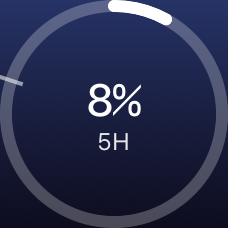
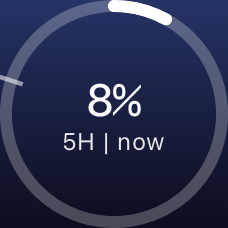
fix(ios-widget): age on every family, distinct stale and sign-in states

Changed region(s): [[0.2763, 0.5833, 0.7368, 0.6754], [0.0, 0.307, 0.0614, 0.3684]]

diff --git a/iOS/WidgetTests/CircularUsageViewTests.swift b/iOS/WidgetTests/CircularUsageViewTests.swift
@@ -15,7 +15,8 @@ final class CircularUsageViewTests: XCTestCase {
     func testFreshShowsShortLabel() {
         let c = content(entry(F.claudeMax))!
         XCTAssertEqual(c.row.key.rawValue, "session5h")
-        XCTAssertEqual(c.caption, "5H")
+        XCTAssertTrue(c.caption.hasPrefix("5H | "), c.caption)
+        XCTAssertGreaterThan(c.caption.count, "5H | ".count)
         XCTAssertFalse(c.isProblem)
         XCTAssertFalse(c.isDimmed)
     }
@@ -27,17 +28,32 @@ final class CircularUsageViewTests: XCTestCase {
 
     func testStaleReplacesLabelWithAge() {
         let c = content(entry(F.claudeMax, at: F.now.addingTimeInterval(45 * 60)))!
-        XCTAssertEqual(c.caption, "45m")
+        XCTAssertEqual(c.caption, "5H | 45m")
         XCTAssertTrue(c.isProblem)
     }
 
     func testNeedsLoginDimmedWithAge() {
         let c = content(entry(F.claudeMax, status: .needsLogin, at: F.now.addingTimeInterval(5 * 60)))!
-        XCTAssertEqual(c.caption, "5m")
+        XCTAssertEqual(c.caption, "5H | 5m")
         XCTAssertTrue(c.isDimmed)
     }
 
     func testNoSnapshotIsNil() {
         XCTAssertNil(content(entry(nil)))
+    }
+
+    func testRingTickStaysOnRing() {
+        let c = CGPoint(x: 50, y: 50)
+        for f in [0, 0.001, 0.25, 0.5, 0.62, 0.999, 1, -0.2, 1.3] {
+            let p = WidgetRing.point(on: f, center: c, radius: 40)
+            XCTAssertEqual(hypot(p.x - 50, p.y - 50), 40, accuracy: 0.001, "fraction \(f)")
+        }
+        let top = WidgetRing.point(on: 0, center: c, radius: 40)
+        XCTAssertEqual(top.x, 50, accuracy: 0.001); XCTAssertEqual(top.y, 10, accuracy: 0.001)
+        let right = WidgetRing.point(on: 0.25, center: c, radius: 40)
+        XCTAssertEqual(right.x, 90, accuracy: 0.001); XCTAssertEqual(right.y, 50, accuracy: 0.001)
+        let nearOne = WidgetRing.point(on: 0.999, center: c, radius: 40)
+        XCTAssertLessThan(nearOne.x, 50); XCTAssertLessThan(nearOne.y, 11)
+        XCTAssertEqual(WidgetRing.point(on: 1.3, center: c, radius: 40).y, 10, accuracy: 0.001)
     }
 }

diff --git a/iOS/WidgetTests/InlineTextTests.swift b/iOS/WidgetTests/InlineTextTests.swift
@@ -13,9 +13,9 @@ final class InlineTextTests: XCTestCase {
 
     func text(_ e: UsageEntry) -> String { InlineText.text(e, calendar: F.calendar, locale: F.locale) }
 
-    func testInlineClock() { XCTAssertEqual(text(entry()), "Claude 34% | 5:30 PM") }
+    func testInlineClock() { XCTAssertEqual(text(entry()), "Claude 34% | 5:30 PM | " + age()) }
 
-    func testInlineCountdown() { XCTAssertEqual(text(entry(style: .countdown)), "Claude 34% | 2h 10m") }
+    func testInlineCountdown() { XCTAssertEqual(text(entry(style: .countdown)), "Claude 34% | 2h 10m | " + age()) }
 
     func testInlineStaleShowsAge() {
         XCTAssertEqual(text(entry(at: F.now.addingTimeInterval(45 * 60))), "Claude 34% | Updated 45 min ago")
@@ -25,7 +25,17 @@ final class InlineTextTests: XCTestCase {
         XCTAssertEqual(text(entry(at: F.now.addingTimeInterval(120), status: .needsLogin)), "Claude 34% | Sign in | 2m")
     }
 
-    func testInlineNoData() { XCTAssertEqual(text(entry(snapshot: nil)), "No data") }
+    func testInlineNoAccount() { XCTAssertEqual(text(entry(snapshot: nil)), "Choose account") }
+
+    func testInlineNoData() {
+        let e = entry(snapshot: nil)
+        let withAccount = UsageEntry(date: e.date, account: F.claudeAccount, snapshot: nil, status: e.status, meterKeys: [], settings: e.settings, theme: .glass, relevance: nil)
+        XCTAssertEqual(text(withAccount), "No data yet")
+    }
+
+    func age() -> String {
+        MeterDisplay.ageShort(fetchedAt: F.claudeMax.fetchedAt, now: F.now, options: entry().settings.meterOptions(calendar: F.calendar, locale: F.locale))
+    }
 
     func testInlineNoSeparatorDot() {
         for e in [entry(), entry(style: .countdown), entry(at: F.now.addingTimeInterval(7200)), entry(status: .needsLogin), entry(snapshot: nil)] {

diff --git a/iOS/Widget/LockScreen/InlineUsageWidget.swift b/iOS/Widget/LockScreen/InlineUsageWidget.swift
@@ -2,7 +2,7 @@ import SwiftUI
 import UsageCore
 import WidgetKit
 
-/// Lock Screen inline: one line, `<provider> <percent> | <reset or age>`.
+/// Lock Screen inline: one line, `<provider> <percent> | <reset> | <age>`.
 struct InlineUsageWidget: Widget {
     static let kind = "InlineUsageWidget"
 
@@ -35,18 +35,17 @@ enum InlineText {
     static func text(_ entry: UsageEntry, calendar: Calendar = .current, locale: Locale = .current) -> String {
         let kind = entry.account?.kind ?? entry.snapshot?.accountID.kind
         let name = kind.map(shortName)
-        func join(_ parts: String...) -> String { ([name].compactMap { $0 } + parts).joined(separator: " | ") }
 
         guard let snapshot = entry.snapshot,
               let meter = WidgetMeterModel.resolveMeters(entry.meterKeys, in: snapshot, family: .inline).first
-        else { return join("No data") }
+        else { return WidgetFreshness.emptyMessage(hasAccount: entry.account != nil) }
 
         let row = WidgetMeterModel.row(meter, at: entry.date, settings: entry.settings, calendar: calendar, locale: locale)
         let head = [name, row.percentText].compactMap { $0 }.joined(separator: " ")
         let options = entry.settings.meterOptions(calendar: calendar, locale: locale)
         switch WidgetFreshness.freshness(fetchedAt: snapshot.fetchedAt, status: entry.status, at: entry.date) {
         case .fresh:
-            return "\(head) | \(row.resetText)"
+            return "\(head) | \(row.resetText) | " + MeterDisplay.ageShort(fetchedAt: snapshot.fetchedAt, now: entry.date, options: options)
         case .stale, .noData:
             return "\(head) | " + MeterDisplay.ageText(fetchedAt: snapshot.fetchedAt, now: entry.date, options: options)
         case .failed:

diff --git a/iOS/Widget/Views/AgeLabel.swift b/iOS/Widget/Views/AgeLabel.swift
@@ -1,25 +1,40 @@
 import SwiftUI
 
-/// Clock glyph plus age. Stale or failed: critical color in full color, exclamation glyph otherwise.
+/// Glyph plus age. Fresh: clock, tertiary. Stale: clock, orange. Sign-in needed: sign-in glyph, red.
 struct AgeLabel: View {
     var text: String
     var freshness: WidgetFreshness.Freshness
     var style: WidgetRenderStyle
 
-    private var isProblem: Bool {
-        switch freshness {
-        case .stale, .failed: true
-        case .fresh, .noData: false
+    enum Tone: Equatable, Sendable { case normal, stale, signIn }
+
+    static func tone(_ f: WidgetFreshness.Freshness) -> Tone {
+        switch f {
+        case .failed: .signIn
+        case .stale: .stale
+        case .fresh, .noData: .normal
+        }
+    }
+
+    static func glyph(_ tone: Tone) -> String {
+        tone == .signIn ? "person.crop.circle.badge.exclamationmark" : "clock"
+    }
+
+    private var color: Color {
+        switch Self.tone(freshness) {
+        case .normal: style.text(.tertiary)
+        case .stale: style.isFullColor ? Color.orange : style.text(.secondary)
+        case .signIn: style.isFullColor ? GlassStyle.critical : Color.primary
         }
     }
 
     var body: some View {
         HStack(spacing: 2) {
-            Image(systemName: isProblem && !style.isFullColor ? "exclamationmark.circle" : "clock")
+            Image(systemName: Self.glyph(Self.tone(freshness)))
             Text(text).monospacedDigit()
         }
         .font(.system(size: 10, weight: .medium))
-        .foregroundStyle(isProblem && style.isFullColor ? GlassStyle.critical : style.text(.tertiary))
+        .foregroundStyle(color)
         .lineLimit(1)
     }
 }

diff --git a/iOS/Widget/Views/WidgetRing.swift b/iOS/Widget/Views/WidgetRing.swift
@@ -11,6 +11,12 @@ struct WidgetRing: View {
     var kind: ProviderKind
     var lineWidth: CGFloat = 4
 
+    /// Point on the ring for a fraction: 0 at 12 o'clock, clockwise. Fraction is clamped to 0...1.
+    nonisolated static func point(on fraction: Double, center: CGPoint, radius: CGFloat) -> CGPoint {
+        let angle = 2 * Double.pi * min(max(fraction, 0), 1) - Double.pi / 2
+        return CGPoint(x: center.x + radius * CGFloat(cos(angle)), y: center.y + radius * CGFloat(sin(angle)))
+    }
+
     var body: some View {
         ZStack {
             Circle().stroke(style.ringTrack(), lineWidth: lineWidth)
@@ -23,12 +29,14 @@ struct WidgetRing: View {
             }
             if let paceTick {
                 GeometryReader { geo in
+                    let center = CGPoint(x: geo.size.width / 2, y: geo.size.height / 2)
                     let r = min(geo.size.width, geo.size.height) / 2
-                    Rectangle()
-                        .fill(style.paceTick())
-                        .frame(width: 1.5, height: lineWidth + 4)
-                        .position(x: geo.size.width / 2, y: geo.size.height / 2 - r)
-                        .rotationEffect(.degrees(360 * paceTick))
+                    let half = lineWidth / 2 + 2
+                    Path { p in
+                        p.move(to: Self.point(on: paceTick, center: center, radius: r - half))
+                        p.addLine(to: Self.point(on: paceTick, center: center, radius: r + half))
+                    }
+                    .stroke(style.paceTick(), lineWidth: 1.5)
                 }
             }
             Text(centerText)

diff --git a/iOS/WidgetTests/SmallWidgetContentTests.swift b/iOS/WidgetTests/SmallWidgetContentTests.swift
@@ -18,10 +18,12 @@ final class SmallWidgetContentTests: XCTestCase {
         XCTAssertNotNil(c.ageText)
     }
 
-    func testStaleDerivedFromEntryDateDims() {
+    func testStaleDerivedFromEntryDateNotDimmed() {
         let c = SmallWidgetContent(entry(F.claudeMax, at: F.now.addingTimeInterval(31 * 60)), calendar: F.calendar, locale: F.locale)
         XCTAssertEqual(c.freshness, .stale)
-        XCTAssertTrue(c.isDimmed)
+        XCTAssertFalse(c.isDimmed)
+        XCTAssertEqual(AgeLabel.tone(c.freshness), .stale)
+        XCTAssertEqual(AgeLabel.glyph(.stale), "clock")
     }
 
     func testNeedsLoginKeepsNumbersDimmedWithAge() {
@@ -29,6 +31,13 @@ final class SmallWidgetContentTests: XCTestCase {
         XCTAssertEqual(c.rows.count, 2)
         XCTAssertTrue(c.isDimmed)
         XCTAssertNotNil(c.ageText)
+        XCTAssertEqual(AgeLabel.tone(c.freshness), .signIn)
+        XCTAssertEqual(AgeLabel.glyph(.signIn), "person.crop.circle.badge.exclamationmark")
+    }
+
+    func testEmptyCopy() {
+        XCTAssertEqual(WidgetFreshness.emptyMessage(hasAccount: false), "Choose account")
+        XCTAssertEqual(WidgetFreshness.emptyMessage(hasAccount: true), "No data yet")
     }
 
     func testNoSnapshotHasNoRowsNoAge() {

diff --git a/iOS/Widget/LockScreen/CircularUsageWidget.swift b/iOS/Widget/LockScreen/CircularUsageWidget.swift
@@ -32,7 +32,7 @@ struct CircularUsageView: View {
 
     struct Content: Equatable, Sendable {
         var row: WidgetMeterRow
-        /// Short label when fresh; age text when stale or failed.
+        /// Short label and age, e.g. `5H | 2m`.
         var caption: String
         var isProblem: Bool
         var isDimmed: Bool
@@ -57,7 +57,7 @@ struct CircularUsageView: View {
         case .failed: isProblem = true; isFailed = true
         case .fresh, .noData: isProblem = false; isFailed = false
         }
-        return Content(row: row, caption: isProblem ? age : row.shortLabel, isProblem: isProblem, isDimmed: row.isDimmed || isFailed)
+        return Content(row: row, caption: "\(row.shortLabel) | \(age)", isProblem: isProblem, isDimmed: row.isDimmed || isFailed)
     }
 
     private var isGlass: Bool { style.theme == .glass }
@@ -101,7 +101,7 @@ struct CircularUsageView: View {
         }
         .opacity(style.dimmed(c.isDimmed))
         .accessibilityElement(children: .ignore)
-        .accessibilityLabel("\(c.row.label) \(c.row.percentText), \(c.isProblem ? "updated " : "")\(c.caption)")
+        .accessibilityLabel("\(c.row.label) \(c.row.percentText), \(c.caption)")
     }
 }
 

diff --git a/iOS/Widget/Views/WidgetEmptyView.swift b/iOS/Widget/Views/WidgetEmptyView.swift
@@ -8,16 +8,22 @@ struct WidgetEmptyView: View {
     var style: WidgetRenderStyle
     var reason: Reason = .noAccount
 
-    private var message: String { reason == .noAccount ? "Choose account" : "No data yet" }
+    private var message: String { WidgetFreshness.emptyMessage(hasAccount: reason == .noData) }
 
     var body: some View {
         switch family {
         case .inline:
             Text(message)
         case .circular:
-            Image(systemName: reason == .noAccount ? "person.crop.circle.badge.questionmark" : "hourglass")
-                .font(.title3)
-                .accessibilityLabel(message)
+            VStack(spacing: 1) {
+                Image(systemName: reason == .noAccount ? "person.crop.circle.badge.questionmark" : "hourglass")
+                    .font(.system(size: 14))
+                Text(message)
+                    .font(.system(size: 8, weight: .medium))
+                    .multilineTextAlignment(.center)
+                    .minimumScaleFactor(0.6)
+            }
+            .padding(.horizontal, 6)
         case .small, .rectangular:
             VStack(spacing: 4) {
                 Image(systemName: "hourglass").font(.title3)

diff --git a/iOS/Widget/Model/WidgetFreshness.swift b/iOS/Widget/Model/WidgetFreshness.swift
@@ -18,6 +18,12 @@ enum WidgetFreshness {
         return at.timeIntervalSince(fetchedAt) > staleAfter ? .stale : .fresh
     }
 
+    /// Only a hard failure (sign-in needed) dims values; stale data keeps full contrast.
+    static func isDimmed(_ f: Freshness) -> Bool { if case .failed = f { true } else { false } }
+
+    /// Empty-state copy shared by every family.
+    static func emptyMessage(hasAccount: Bool) -> String { hasAccount ? "No data yet" : "Choose account" }
+
     static func ageText(fetchedAt: Date, at: Date, calendar: Calendar, settings: DisplaySettings) -> String {
         MeterDisplay.ageShort(fetchedAt: fetchedAt, now: at, options: settings.meterOptions(calendar: calendar))
     }

diff --git a/iOS/Widget/LockScreen/RectangularUsageWidget.swift b/iOS/Widget/LockScreen/RectangularUsageWidget.swift
@@ -26,7 +26,7 @@ struct RectangularUsageContent: Equatable {
     /// The reset line fits only with a single row.
     var showReset: Bool { rows.count == 1 }
     /// A failed account keeps its last number, dimmed, next to its age.
-    var isDimmed: Bool { if case .failed = freshness { true } else { false } }
+    var isDimmed: Bool { WidgetFreshness.isDimmed(freshness) }
 
     static func make(_ entry: UsageEntry, calendar: Calendar = .current, locale: Locale = .current) -> RectangularUsageContent? {
         guard let account = entry.account, let snapshot = entry.snapshot else { return nil }

diff --git a/iOS/WidgetTests/RectangularUsageWidgetTests.swift b/iOS/WidgetTests/RectangularUsageWidgetTests.swift
@@ -29,6 +29,8 @@ final class RectangularUsageWidgetTests: XCTestCase {
         let late = F.now.addingTimeInterval(WidgetFreshness.staleAfter + 60)
         let c = RectangularUsageContent.make(entry([], at: late), calendar: F.calendar, locale: F.locale)!
         XCTAssertEqual(c.freshness, .stale)
+        XCTAssertFalse(c.isDimmed)
+        XCTAssertEqual(AgeLabel.tone(c.freshness), .stale)
     }
 
     func testNeedsLoginDimsValueButKeepsAge() {

diff --git a/iOS/Widget/Views/WidgetBar.swift b/iOS/Widget/Views/WidgetBar.swift
@@ -28,7 +28,7 @@ struct WidgetBar: View {
                 if let paceTick {
                     RoundedRectangle(cornerRadius: 0.5)
                         .fill(style.paceTick())
-                        .frame(width: 1.5, height: height + 6)
+                        .frame(width: 1.5, height: height + 4)
                         .offset(x: geo.size.width * paceTick - 0.75)
                 }
             }
